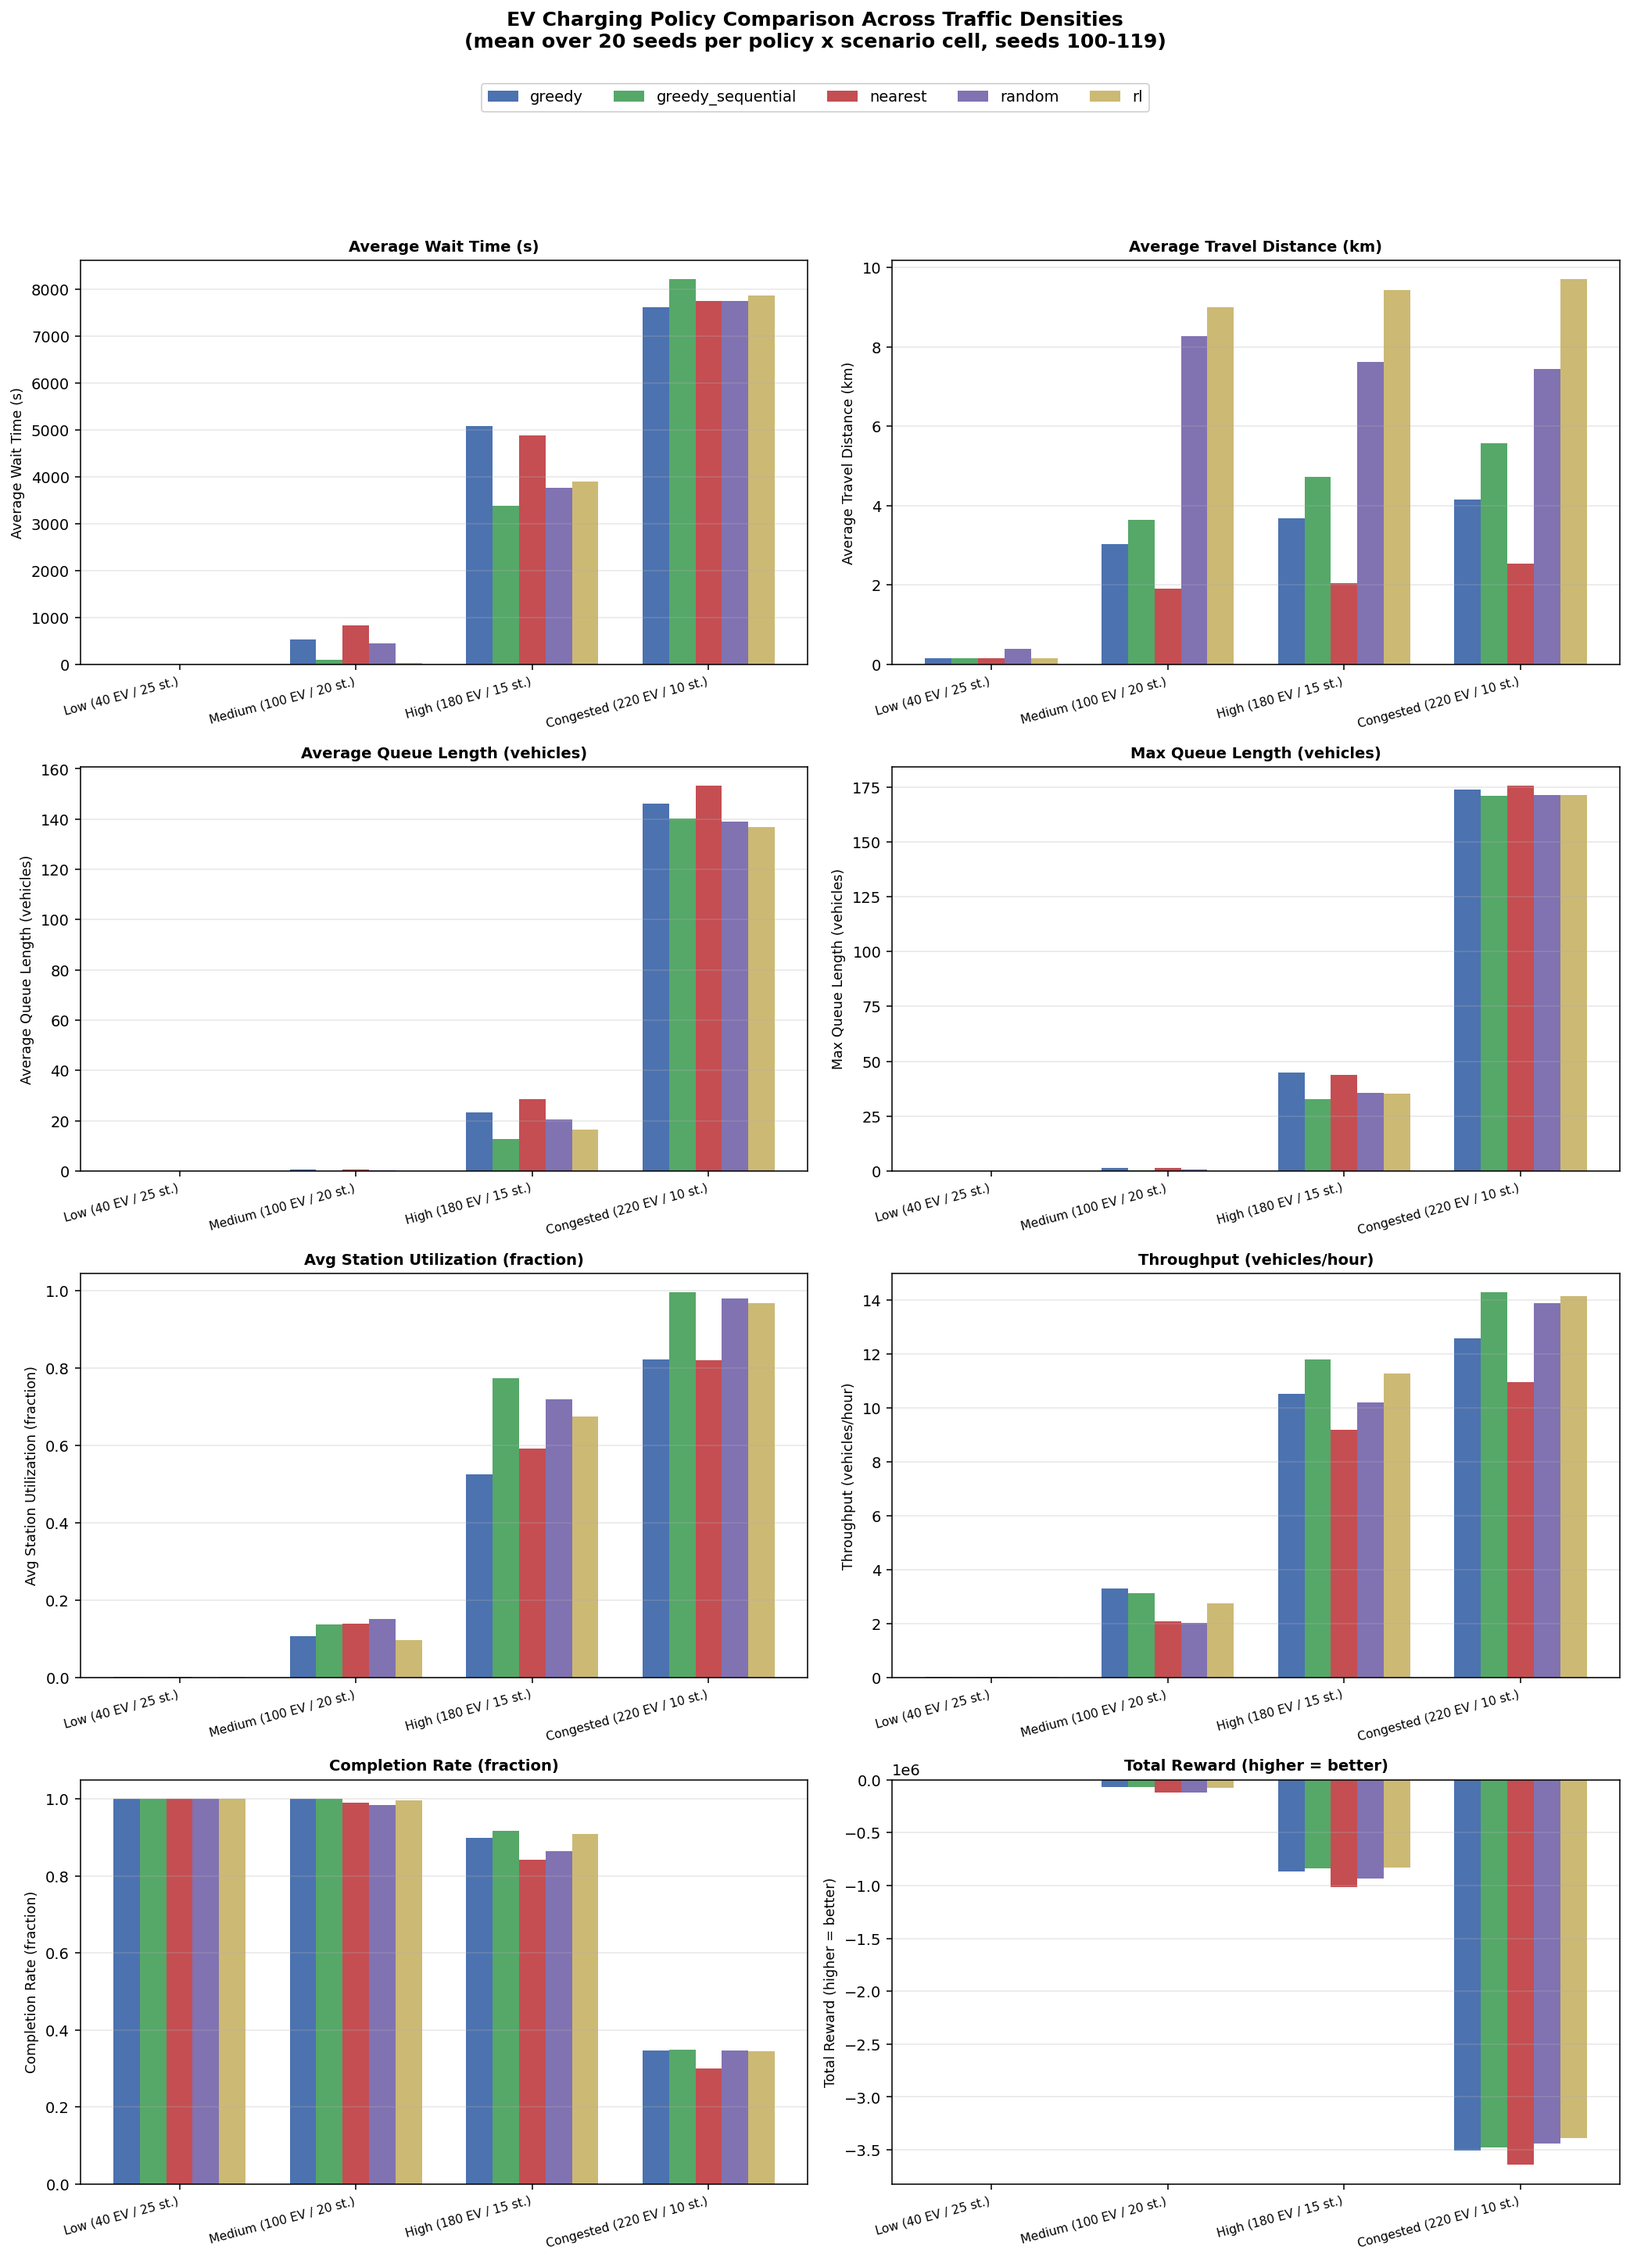
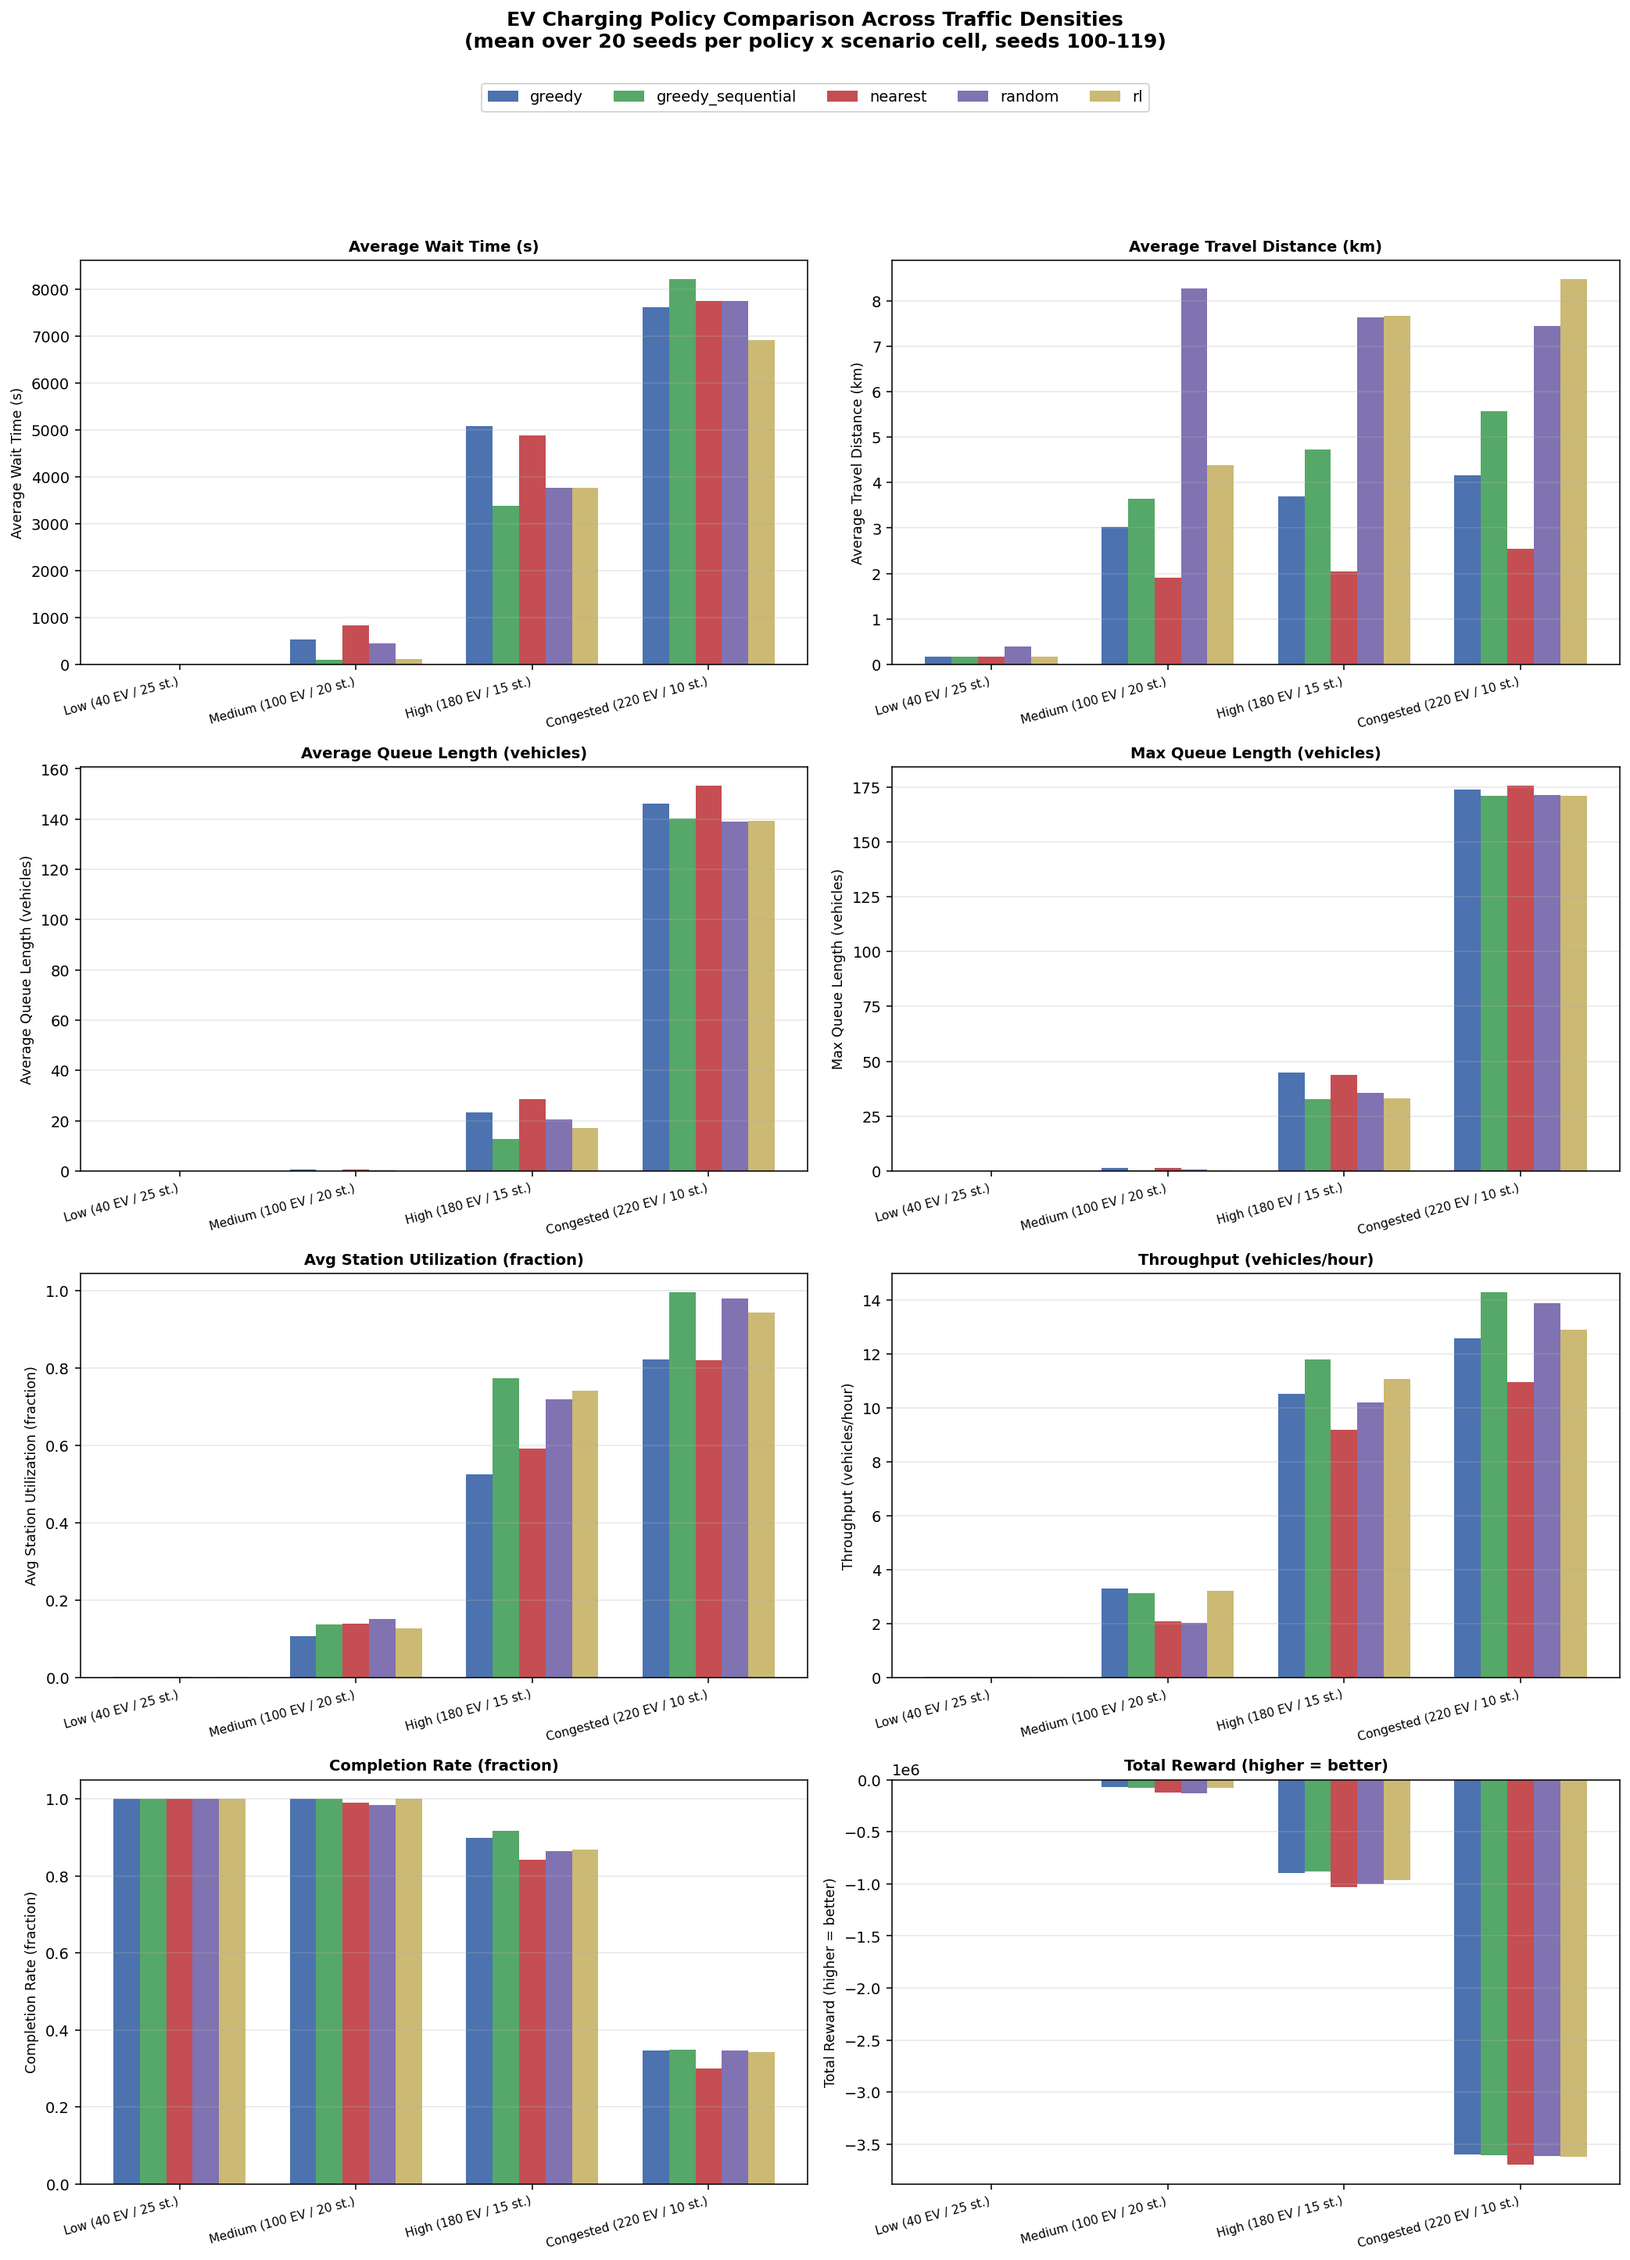
Update stats summary and comparison chart

diff --git a/results/stats_summary.md b/results/stats_summary.md
@@ -1,49 +1,49 @@
 # Experiment Stats Summary
 ## Scenario: low
 
-- **greedy**: mean total_reward=-174.0 (std=758.4, n=20)
-- **greedy_sequential**: mean total_reward=-174.0 (std=758.4, n=20)
+- **greedy**: mean total_reward=-192.0 (std=836.9, n=20)
+- **greedy_sequential**: mean total_reward=-192.0 (std=836.9, n=20)
   - vs greedy: t-test p=nan, Wilcoxon p=nan, Cohen's d=0.000
-- **nearest**: mean total_reward=-543.0 (std=2366.9, n=20)
+- **nearest**: mean total_reward=-561.0 (std=2445.3, n=20)
   - vs greedy: t-test p=0.3299, Wilcoxon p=0.3173, Cohen's d=-0.229
-- **random**: mean total_reward=-567.0 (std=2471.5, n=20)
+- **random**: mean total_reward=-612.0 (std=2667.6, n=20)
   - vs greedy: t-test p=0.3299, Wilcoxon p=0.3173, Cohen's d=-0.229
-- **rl**: mean total_reward=-174.0 (std=758.4, n=20)
+- **rl**: mean total_reward=-192.0 (std=836.9, n=20)
   - vs greedy: t-test p=nan, Wilcoxon p=nan, Cohen's d=0.000
 
 ## Scenario: medium
 
-- **greedy**: mean total_reward=-68202.0 (std=22125.3, n=20)
-- **greedy_sequential**: mean total_reward=-73257.0 (std=24751.0, n=20)
-  - vs greedy: t-test p=0.0775, Wilcoxon p=0.0121, Cohen's d=-0.428
-- **nearest**: mean total_reward=-118185.0 (std=43063.0, n=20)
-  - vs greedy: t-test p=0.0000, Wilcoxon p=0.0000, Cohen's d=-1.941
-- **random**: mean total_reward=-121449.0 (std=40334.4, n=20)
-  - vs greedy: t-test p=0.0000, Wilcoxon p=0.0000, Cohen's d=-2.222
-- **rl**: mean total_reward=-73554.0 (std=28314.0, n=20)
-  - vs greedy: t-test p=0.1576, Wilcoxon p=0.1429, Cohen's d=-0.338
+- **greedy**: mean total_reward=-72051.0 (std=22995.5, n=20)
+- **greedy_sequential**: mean total_reward=-77997.0 (std=26258.3, n=20)
+  - vs greedy: t-test p=0.0370, Wilcoxon p=0.0083, Cohen's d=-0.515
+- **nearest**: mean total_reward=-120486.0 (std=43700.8, n=20)
+  - vs greedy: t-test p=0.0000, Wilcoxon p=0.0000, Cohen's d=-1.919
+- **random**: mean total_reward=-132360.0 (std=43371.2, n=20)
+  - vs greedy: t-test p=0.0000, Wilcoxon p=0.0000, Cohen's d=-2.346
+- **rl**: mean total_reward=-76704.0 (std=28262.5, n=20)
+  - vs greedy: t-test p=0.1725, Wilcoxon p=0.1054, Cohen's d=-0.325
 
 ## Scenario: high
 
-- **greedy**: mean total_reward=-868671.0 (std=119835.9, n=20)
-- **greedy_sequential**: mean total_reward=-842037.0 (std=125283.5, n=20)
-  - vs greedy: t-test p=0.0062, Wilcoxon p=0.0083, Cohen's d=0.705
-- **nearest**: mean total_reward=-1014177.0 (std=127458.6, n=20)
-  - vs greedy: t-test p=0.0000, Wilcoxon p=0.0000, Cohen's d=-1.851
-- **random**: mean total_reward=-936033.0 (std=118180.6, n=20)
-  - vs greedy: t-test p=0.0000, Wilcoxon p=0.0000, Cohen's d=-1.371
-- **rl**: mean total_reward=-833388.0 (std=126203.9, n=20)
-  - vs greedy: t-test p=0.0025, Wilcoxon p=0.0020, Cohen's d=0.797
+- **greedy**: mean total_reward=-897834.0 (std=120974.4, n=20)
+- **greedy_sequential**: mean total_reward=-880164.0 (std=127941.4, n=20)
+  - vs greedy: t-test p=0.0596, Wilcoxon p=0.0583, Cohen's d=0.460
+- **nearest**: mean total_reward=-1029720.0 (std=128290.1, n=20)
+  - vs greedy: t-test p=0.0000, Wilcoxon p=0.0000, Cohen's d=-1.717
+- **random**: mean total_reward=-998580.0 (std=124657.0, n=20)
+  - vs greedy: t-test p=0.0000, Wilcoxon p=0.0000, Cohen's d=-1.989
+- **rl**: mean total_reward=-965673.0 (std=113744.9, n=20)
+  - vs greedy: t-test p=0.0000, Wilcoxon p=0.0000, Cohen's d=-1.517
 
 ## Scenario: congested
 
-- **greedy**: mean total_reward=-3507267.0 (std=118334.6, n=20)
-- **greedy_sequential**: mean total_reward=-3478248.0 (std=110537.7, n=20)
-  - vs greedy: t-test p=0.0072, Wilcoxon p=0.0064, Cohen's d=0.691
-- **nearest**: mean total_reward=-3640305.0 (std=126524.4, n=20)
-  - vs greedy: t-test p=0.0000, Wilcoxon p=0.0000, Cohen's d=-1.568
-- **random**: mean total_reward=-3440574.0 (std=104912.6, n=20)
-  - vs greedy: t-test p=0.0000, Wilcoxon p=0.0000, Cohen's d=1.598
-- **rl**: mean total_reward=-3387717.0 (std=105751.0, n=20)
-  - vs greedy: t-test p=0.0000, Wilcoxon p=0.0000, Cohen's d=2.670
+- **greedy**: mean total_reward=-3600270.0 (std=115686.8, n=20)
+- **greedy_sequential**: mean total_reward=-3604656.0 (std=108809.2, n=20)
+  - vs greedy: t-test p=0.6515, Wilcoxon p=0.8124, Cohen's d=-0.105
+- **nearest**: mean total_reward=-3695412.0 (std=124607.2, n=20)
+  - vs greedy: t-test p=0.0000, Wilcoxon p=0.0000, Cohen's d=-1.202
+- **random**: mean total_reward=-3611007.0 (std=104804.6, n=20)
+  - vs greedy: t-test p=0.3236, Wilcoxon p=0.3488, Cohen's d=-0.232
+- **rl**: mean total_reward=-3617085.0 (std=109103.9, n=20)
+  - vs greedy: t-test p=0.1242, Wilcoxon p=0.1769, Cohen's d=-0.369
 
